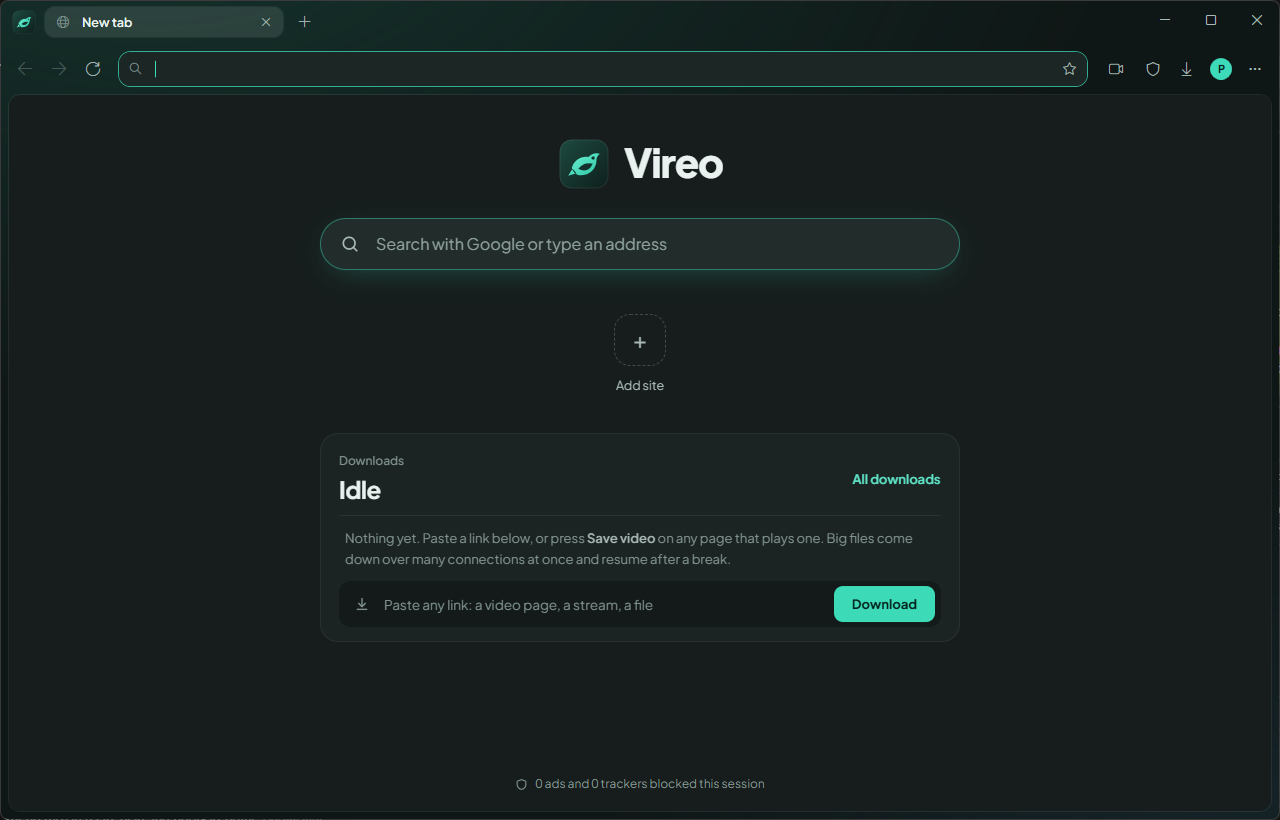
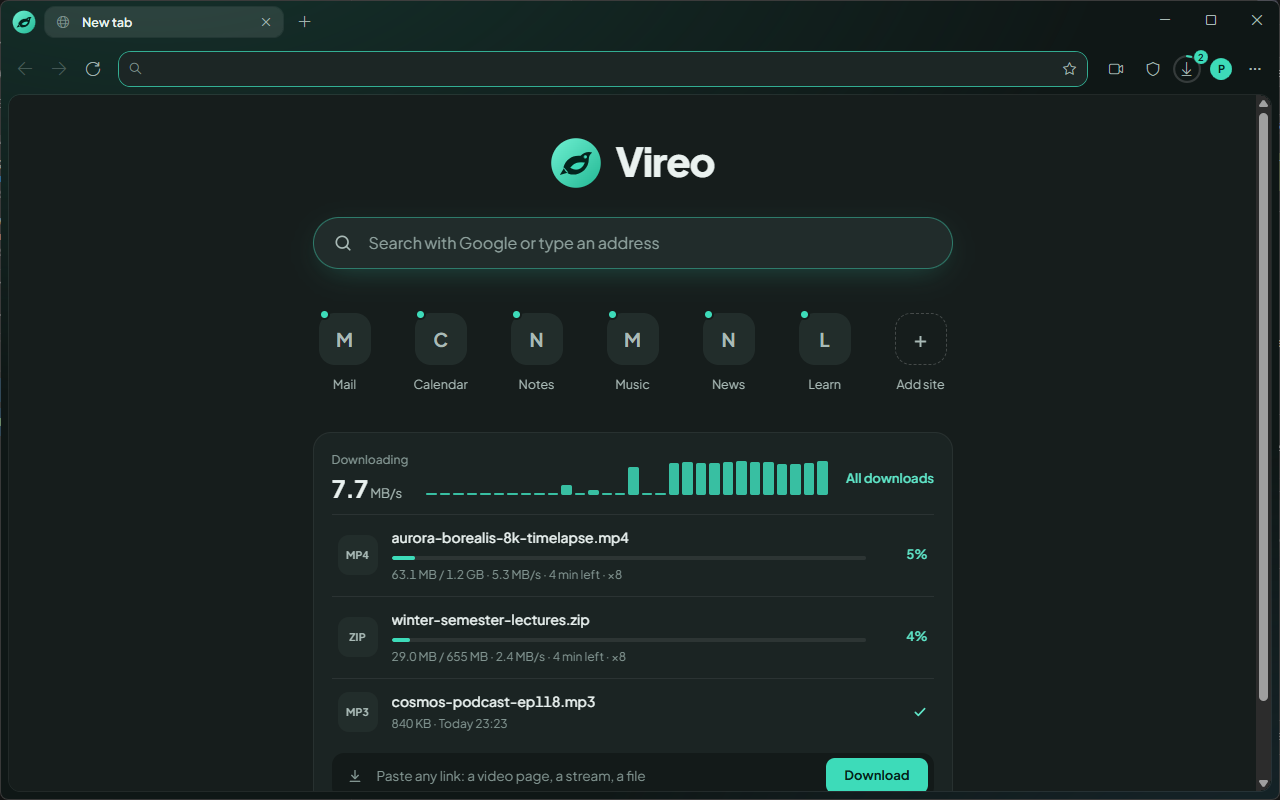
README pictures of Vireo itself (the start page, Downloads, the welcome, the download manager settings, the downloader's own window) with clean demo content, in place of the test pages; a showcase self-test step that redraws them

diff --git a/src/Vireo/SelfTest.Showcase.cs b/src/Vireo/SelfTest.Showcase.cs
@@ -1,0 +1,98 @@
+using System.IO;
+using System.Windows;
+using System.Windows.Controls;
+using Vireo.Downloads;
+using Vireo.Models;
+using Vireo.Services;
+
+namespace Vireo;
+
+internal sealed partial class SelfTest
+{
+    /// <summary>
+    /// Pictures for the README and the release page (only on request: VIREO_STEPS=showcase). Vireo's own screens, with clean
+    /// demo content: made-up file names downloading from the local test server, a few start-page sites, no web pages and
+    /// no addresses. Written to the out folder as showcase-*.png.
+    /// </summary>
+    private async Task RunShowcaseStepsAsync()
+    {
+        w.Topmost = true;
+        w.WindowState = WindowState.Normal;
+        w.Left = 60; w.Top = 40; w.Width = 1280; w.Height = 800;
+        w.CloseDrawer();
+
+        // One clean start page; every test tab goes.
+        var home = await w.OpenTabAsync(null);
+        foreach (var t in w.AllTabs.Where(t => t != home).ToList()) await w.CloseTabAsync(t);
+        foreach (var d in w.Downloads.Items.ToList()) w.Downloads.Remove(d);
+
+        w.Settings.PinnedSites = [new("Mail", "https://mail.example.com/"), new("Calendar", "https://calendar.example.com/"), new("Notes", "https://notes.example.com/"),
+            new("Music", "https://music.example.com/"), new("News", "https://news.example.com/"), new("Learn", "https://learn.example.com/")];
+        w.Settings.PinnedSitesChangedAt = DateTime.UtcNow;
+        w.Settings.Commit();
+        BrowserTab.TotalAds = 1284;
+        BrowserTab.TotalTrackers = 312;
+
+        // Finished earlier, then two big ones still coming down.
+        var demo = new List<DownloadItem>();
+        foreach (var (name, size) in new[] { ("pixel-fonts-collection.7z", 1_480_000), ("q3-financial-summary.pdf", 240_000), ("cosmos-podcast-ep118.mp3", 860_000) })
+        {
+            demo.Add(w.Downloads.Add(new DownloadRequest($"{baseUrl}/generated/{size}.bin?n={name}", name)));
+            await WaitFor(() => demo[^1].State == DownloadState.Completed, 20000);
+            await Task.Delay(1100); // a second apart, so the list is in this order
+        }
+        w.Settings.DownloadConnections = 8; // fixed, so the test server's per-connection pace adds up to a believable speed
+        w.Settings.Commit();
+        demo.Add(w.Downloads.Add(new DownloadRequest($"{baseUrl}/generated/687194767.bin?throttle=330&n=lectures", "winter-semester-lectures.zip")));
+        demo.Add(w.Downloads.Add(new DownloadRequest($"{baseUrl}/generated/1288490188.bin?throttle=720&n=aurora", "aurora-borealis-8k-timelapse.mp4")));
+        await Task.Delay(9000); // a few seconds of speed for the graphs
+
+        await w.ActivateAsync(home);
+        await w.ReloadAsync(home);
+        await Task.Delay(3500);
+        await Shot("showcase-1-start-page");
+
+        w.ShowDownloads();
+        await Task.Delay(3000);
+        await Shot("showcase-2-downloads");
+        w.CloseDrawer();
+
+        // The small window by the clock.
+        MainWindow.ShowTrayWindowForTest();
+        await Task.Delay(2500);
+        SavePicture(MainWindow.TrayWindowForTest, "showcase-5-tray.png");
+        MainWindow.HideTrayWindowForTest();
+
+        // Settings, at the download manager.
+        w.Settings.DownloadManager = true;
+        w.Settings.WatchClipboard = true;
+        w.Settings.Commit();
+        w.ShowSettings();
+        await Task.Delay(800);
+        var body = w.DrawerContent as DependencyObject;
+        var scroll = body as ScrollViewer ?? FindAll<ScrollViewer>(body).FirstOrDefault();
+        var heading = FindAll<TextBlock>(scroll).FirstOrDefault(t => t.Text == "Download manager");
+        if (scroll is not null && heading is not null)
+        {
+            var y = heading.TransformToAncestor(scroll).Transform(new Point(0, 0)).Y;
+            scroll.ScrollToVerticalOffset(scroll.VerticalOffset + y - 8);
+        }
+        await Task.Delay(600);
+        await Shot("showcase-4-settings");
+        w.CloseDrawer();
+        w.Settings.DownloadManager = false;
+        w.Settings.WatchClipboard = false;
+        w.Settings.Commit();
+        MainWindow.ApplyDownloadManagerChoices();
+
+        // The welcome page.
+        await w.OpenWelcomeForTestAsync();
+        await Task.Delay(3000);
+        await Shot("showcase-3-welcome");
+
+        foreach (var d in demo) { w.Downloads.Cancel(d); w.Downloads.Remove(d, deleteFile: true); }
+        w.Settings.DownloadConnections = 0;
+        w.Settings.Commit();
+        Check("the showcase pictures are taken", File.Exists(Path.Combine(outDir, "showcase-1-start-page.png")));
+    }
+}

diff --git a/src/Vireo/SelfTest.cs b/src/Vireo/SelfTest.cs
@@ -195,6 +195,7 @@ internal sealed partial class SelfTest(MainWindow w, string outDir, string baseU
         if (Only?.Contains("sites") == true) await Step("sites", RunSiteSurveyAsync);
         if (Only?.Contains("freezes") == true) await Step("freezes", RunFreezeStepsAsync);
         if (Only?.Contains("animations") == true) await Step("animations", RunAnimationStepsAsync);
+        if (Only?.Contains("showcase") == true) await Step("showcase", RunShowcaseStepsAsync);
         await Step("youtubeads", RunYouTubeAdStepsAsync);
         await Step("welcome", RunWelcomeStepsAsync);
         await Step("manager", RunDownloadManagerStepsAsync);

diff --git a/README.md b/README.md
@@ -29,12 +29,29 @@ Chrome and Edge. Everything around the page, from the tabs to the download manag
 
 ## Screenshots
 
-<div align="center">
-  <img src="docs/screenshots/start-page.png" alt="The start page" width="420" />
-  <img src="docs/screenshots/save-video.png" alt="Saving a video from the page's own player" width="420" />
-  <img src="docs/screenshots/privacy.png" alt="The privacy panel: what was blocked on this site" width="420" />
-  <img src="docs/screenshots/tabs.png" alt="Every open tab, searchable, with what each is using" width="420" />
-</div>
+<p align="center">
+  <img src="docs/screenshots/start-page.png" alt="Vireo's start page: your sites, live download speed, and what is downloading" width="860" />
+  <br><sub>The start page: your own sites, the live download speed and what is coming down.</sub>
+</p>
+
+<table>
+  <tr>
+    <td width="50%"><img src="docs/screenshots/downloads.png" alt="The Downloads panel beside the start page" /></td>
+    <td width="50%"><img src="docs/screenshots/welcome.png" alt="The welcome page on the first start" /></td>
+  </tr>
+  <tr>
+    <td><sub><b>Downloads</b>: several connections per file, a minute of speed history, pause and resume, schedule.</sub></td>
+    <td><sub><b>Welcome</b>: bring your bookmarks, make Vireo the default browser, use it for downloads.</sub></td>
+  </tr>
+  <tr>
+    <td><img src="docs/screenshots/download-manager.png" alt="Settings: the download manager section" /></td>
+    <td align="center"><img src="docs/screenshots/downloader.png" alt="The downloader's own small window by the clock" width="300" /></td>
+  </tr>
+  <tr>
+    <td><sub><b>Download manager</b>: stays by the clock, starts with Windows, offers links you copy, sorts files.</sub></td>
+    <td><sub><b>The downloader alone</b>: keeps going when the browser is closed, using very little memory.</sub></td>
+  </tr>
+</table>
 
 ## Key features
 

diff --git a/docs/DEVELOPMENT.md b/docs/DEVELOPMENT.md
@@ -43,6 +43,10 @@ src\Vireo\bin\Release\net10.0-windows\Vireo.exe --selftest out\shots http://127.
 
 `VIREO_STEPS=windows,privacy` runs only some of the steps.
 
+README pictures (only on request): `VIREO_STEPS=showcase` draws Vireo's own screens with clean demo content (made-up file
+names downloading from the test server, a few start-page sites, no web pages) into `showcase-*.png` in the out folder;
+copy the ones that changed into `docs/screenshots`.
+
 The `welcome` and `manager` steps cover the welcome page and the download-manager features. "Start with Windows" is written
 to a key of the test's own (`HKCU\Software\VireoSelfTest\Run`, removed at the end), never to Windows' Run key; the
 notification area's messages are recorded, not shown; "when done" only records what it would have done; and the
